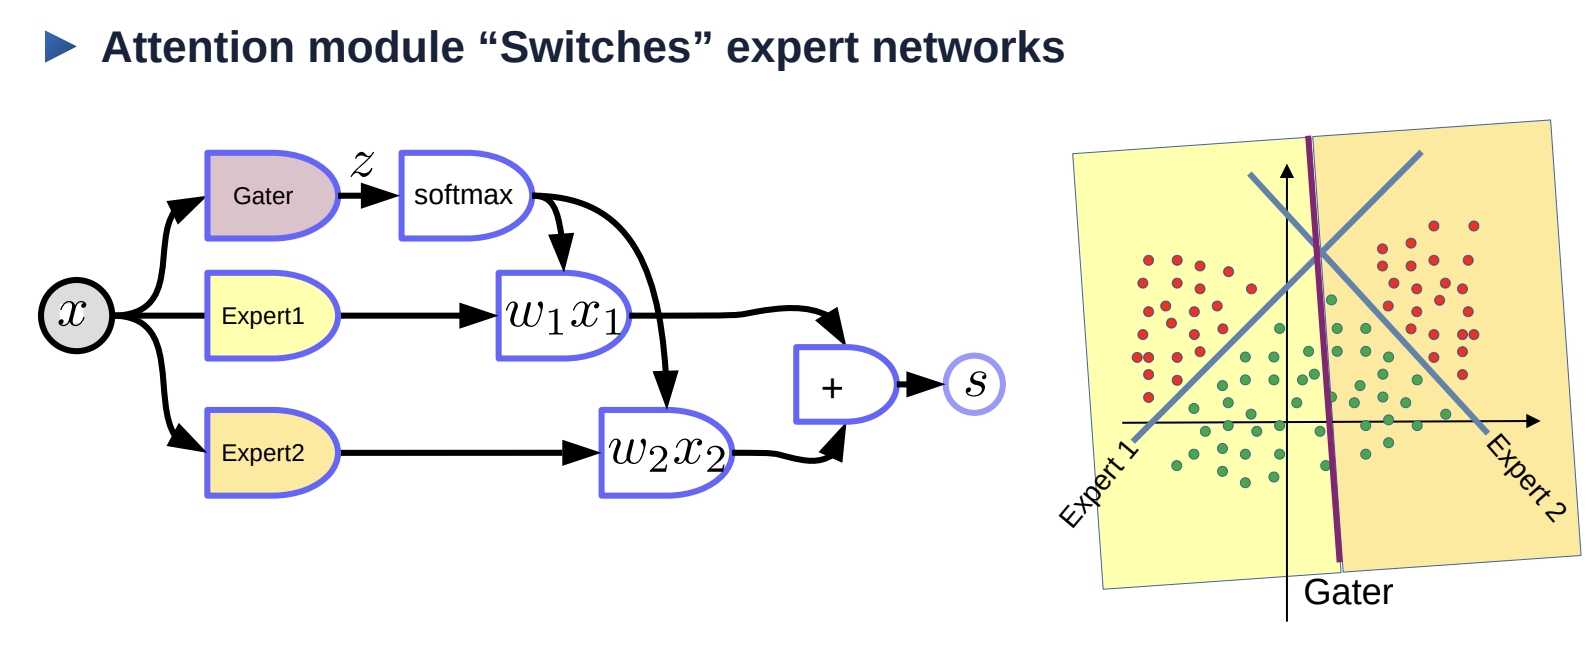
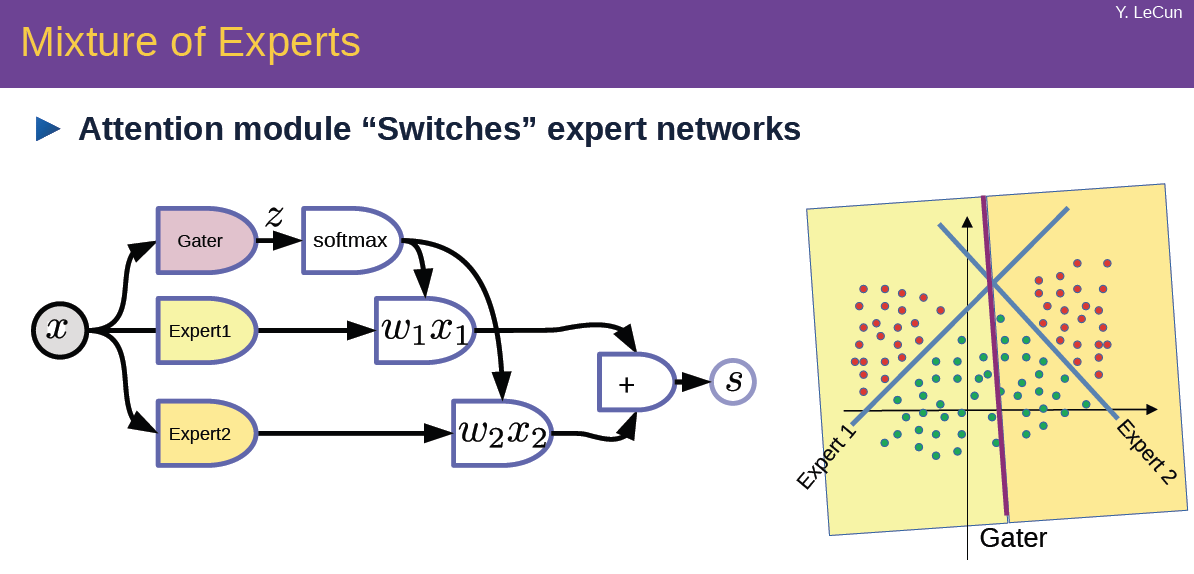
files are updated

diff --git a/mixture-of-experts.py b/mixture-of-experts.py
@@ -130,7 +130,7 @@ data_tensor = data.float()
 labels_tensor = labels.view(-1, 1).float()
 
 # Training loop
-num_epochs = 500
+num_epochs = 2000
 for epoch in tqdm(range(num_epochs)):
     # Forward pass
     y_hat = moe.forward(data)
@@ -153,8 +153,8 @@ gating_weights = moe.gating.linear2.weight.detach().flatten()
 
 x_line = np.linspace(min(data[:, 0]), max(data[:, 0]), 100)
 
-y_line1 = expert1_weights * x_line + 5
-y_line2 = expert2_weights * x_line + 5
+y_line1 = expert1_weights * x_line + expert1_bias
+y_line2 = expert2_weights * x_line + expert2_bias
 
 class_0 = data[labels == 0]
 class_1 = data[labels == 1]
@@ -163,7 +163,8 @@ scatter_class_0 = go.Scatter(
     x=class_0[:, 0],
     y=class_0[:, 1],
     mode='markers',
-    marker=dict(color='rgba(152, 0, 0, 0.5)'),
+    marker=dict(color='rgba(0, 152, 0, 0.5)',
+                line=dict(color='black',width=0.25)),    
     name='Class 0'
 )
 
@@ -171,7 +172,8 @@ scatter_class_1 = go.Scatter(
     x=class_1[:, 0],
     y=class_1[:, 1],
     mode='markers',
-    marker=dict(color='rgba(0, 152, 0, 0.5)'),
+    marker=dict(color='rgba(152, 0, 0, 0.5)',
+                line=dict(color='black',width=0.25)),
     name='Class 1'
 )
 
@@ -180,7 +182,7 @@ line_expert_1 = go.Scatter(
     x=x_line,
     y=y_line1,
     mode='lines',
-    line=dict(color='rgba(152, 0, 0, 0.5)'),
+    line=dict(color='#2E91E5'),
     name='Expert 1'
 )
 
@@ -188,7 +190,7 @@ line_expert_2 = go.Scatter(
     x=x_line,
     y=y_line2,
     mode='lines',
-    line=dict(color='rgba(0, 152, 0, 0.5)'),
+    line=dict(color='#2E91E5'),
     name='Expert 2'
 )
 
@@ -196,7 +198,7 @@ layout = go.Layout(
     xaxis=dict(title='Feature 1'),
     yaxis=dict(title='Feature 2'),
     showlegend=True,
-    autosize=True,
+    autosize=False,
     margin=dict(l=0, r=0, b=0, t=0),
     hovermode='closest',
     plot_bgcolor='rgba(255, 255, 255, 0.8)'
